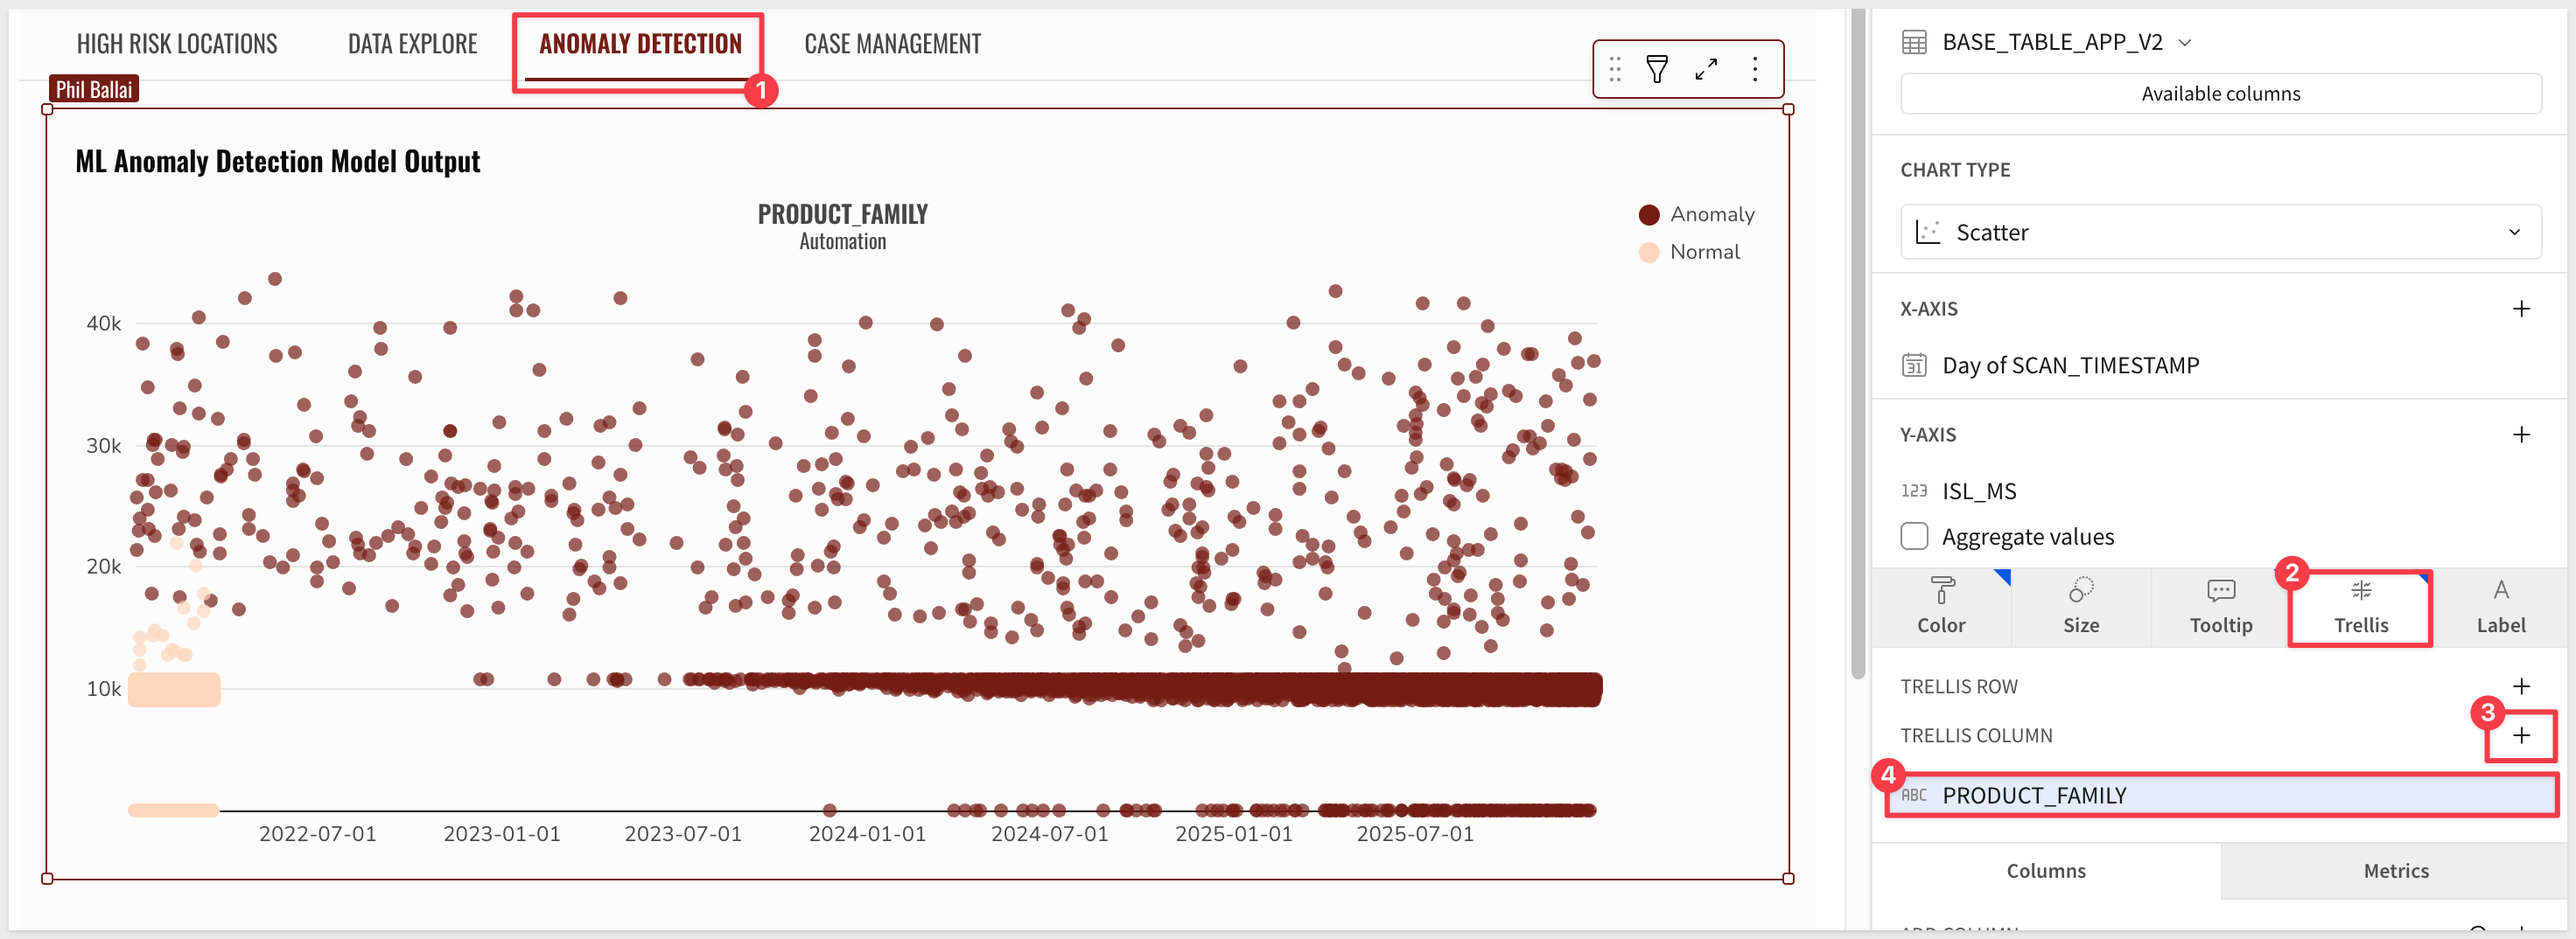
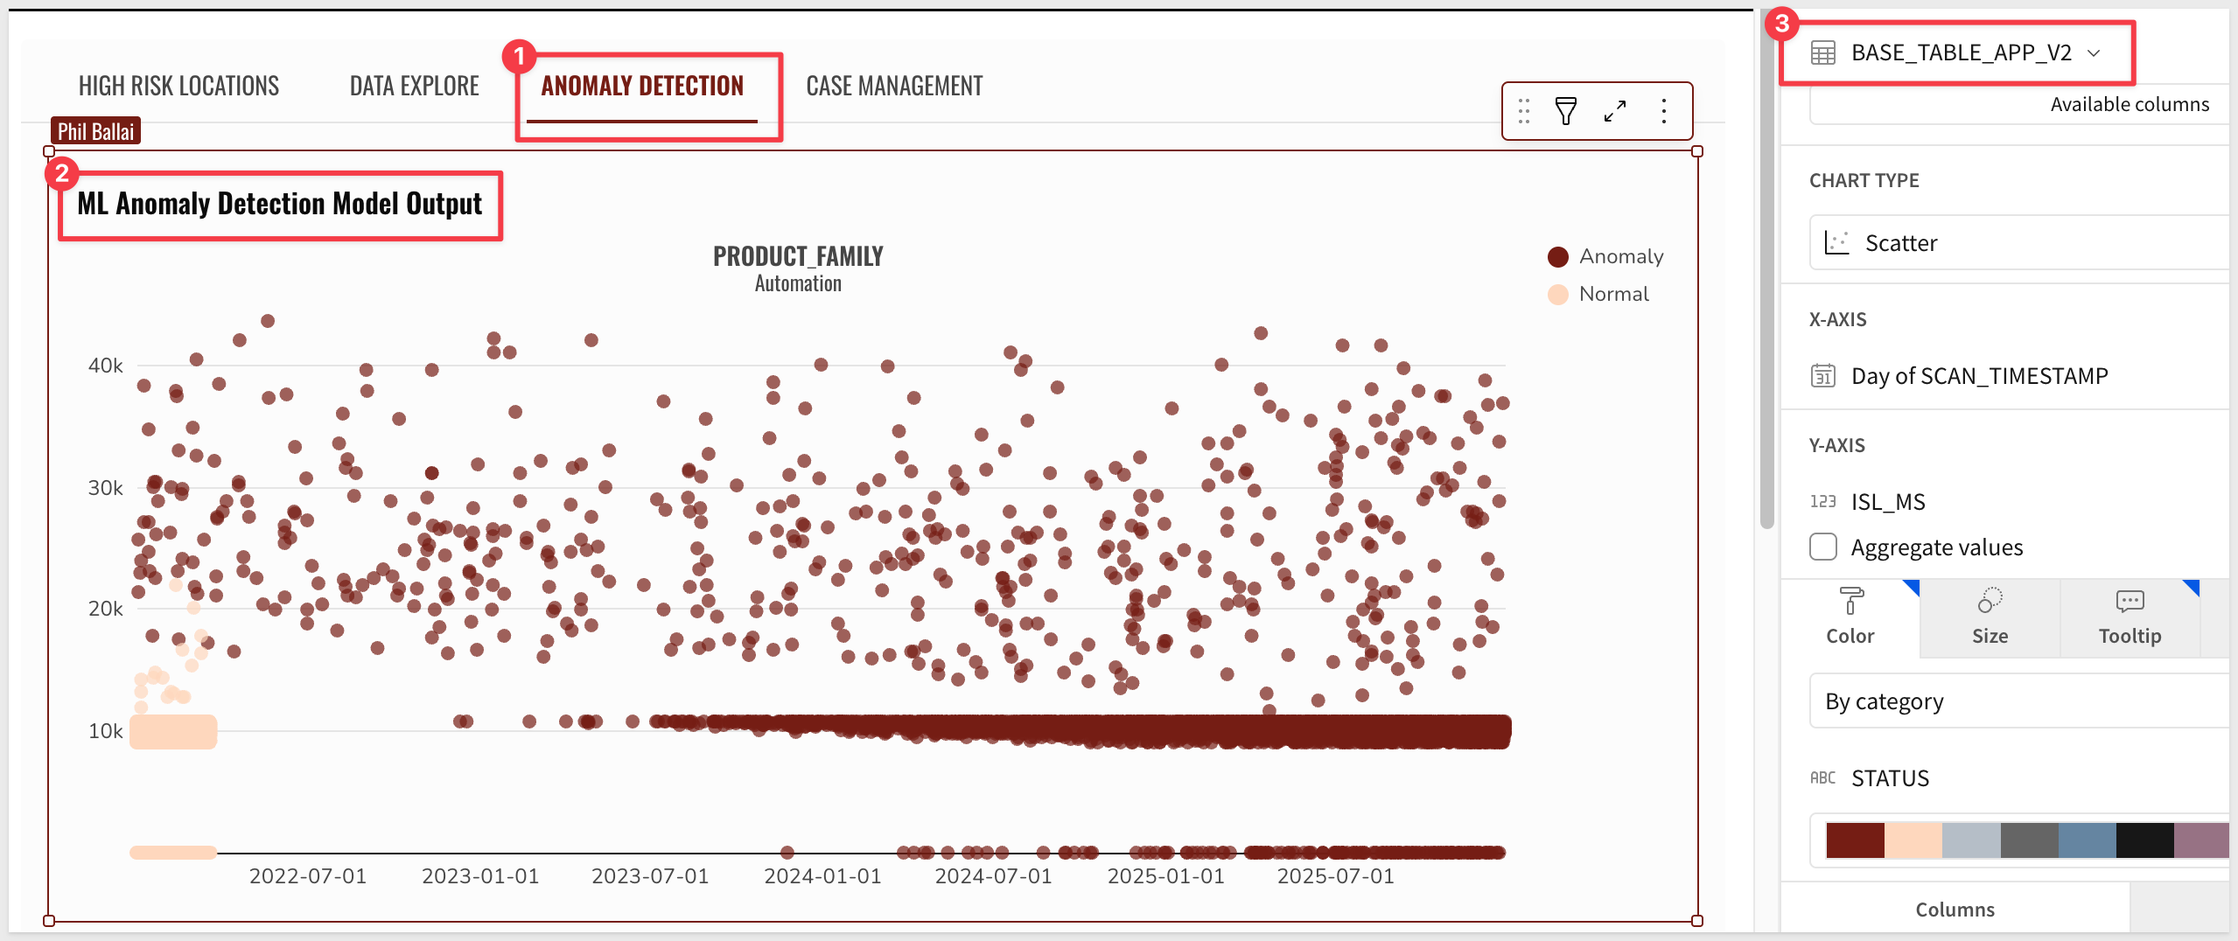
shink_march_20_changes

diff --git a/site/sigmaguides/src/partners_snowflake_retail_loss_prevention_shrink_detection/partners_snowflake_retail_loss_prevention_shrink_detection.md b/site/sigmaguides/src/partners_snowflake_retail_loss_prevention_shrink_detection/partners_snowflake_retail_loss_prevention_shrink_detection.md
@@ -24,7 +24,7 @@ You will modernize the Big Buys security stack by integrating Sigma, Snowflake, 
 - **Build an AI Investigator** using a Sigma Custom Agent (powered by a Cortex Agent) that translates complex model outputs into plain English for store managers
 
 <aside class="positive">
-<strong>What is Inter-Scan Latency?</strong><br> Inter-Scan Latency (ISL) is the time gap between consecutive item scans at a checkout register. Normal scanning has predictable timing patterns, but fraudulent behavior (like "Sweethearting" where cashiers help friends steal) creates unusual pauses or rapid sequences. Unlike dollar amounts or voids, ISL timing patterns are behavioral signatures that are statistically impossible to fake, making them ideal for ML-based fraud detection.
+<strong>What is Inter-Scan Latency?</strong><br> Inter-Scan Latency (ISL) is the time gap between consecutive item scans at a checkout register. Normal scanning has predictable timing patterns, but fraudulent behavior (like "Sweethearting," where cashiers help friends steal) creates unusual pauses or rapid sequences. Unlike dollar amounts or voids, ISL timing patterns are behavioral signatures that are statistically impossible to fake, making them ideal for ML-based fraud detection.
 </aside>
 
 ### Target Audience
@@ -70,7 +70,7 @@ Navigate to the OKTA home page, and click on the `Sigma SE Demos` tile. This wil
 <strong>IMPORTANT:</strong><br> Do not sign up for a new Sigma trial for this lab!
 </aside>
 
-From the Sigma home page navigate to the templates section:
+From the Sigma home page, navigate to the templates section:
 
 <img src="assets/sf2025_2.png" width="800"/>
 
@@ -82,7 +82,7 @@ Under internal templates select `Snowflake SKO FY27 - Loss Prevention App Templa
 ## Module 1: Analytical Audit of Legacy Exception-Based Reporting
 Duration: 20
 
-Welcome to the Team! As a newly hired Shrink Expert, your first week is focused on getting "the lay of the land." Big Buys has been overwhelmed with security alerts, and you have been brought in to build a superior detection system from the ground up.
+Welcome to the team! As a newly hired Shrink Expert, your first week is focused on getting "the lay of the land." Big Buys has been overwhelmed with security alerts, and you have been brought in to build a superior detection system from the ground up.
 
 Before rolling out new solutions, we must evaluate the legacy tools. 
 
@@ -129,7 +129,7 @@ Use the **State** filter to drill down specifically to `Oregon`:
 
 We will use Ask Sigma to investigate Noreen Swift's performance, starting with broad metrics and narrowing our focus. 
 
-Remember we are using the existing version of the Loss Prevention App v1.0 to see the results that store managers currently rely. 
+Remember we are using the existing version of the Loss Prevention App v1.0 to see the results that store managers currently rely on.
 
 **Step 6**: Click the <img src="assets/crane.png" width="45"/> to return to the homepage and navigate to `Ask Sigma` and enter the following prompt.
 
@@ -138,7 +138,7 @@ Provide a comprehensive summary of Noreen Swift's performance history.
 ```
 <img src="assets/rlp_07.png" width="800"/>
 
-We can see a large number of flagged transaction:
+We can see a large number of flagged transactions:
 
 <img src="assets/rlp_08.png" width="600"/>
 
@@ -148,7 +148,7 @@ We can see a large number of flagged transaction:
 List all transactions handled by Noreen along with the static flags.
 ```
 
-Again, we get lots of information back but we will want to dig deeper.
+Again, we get lots of information back, but we will want to dig deeper.
 
 **Step 8**: Click the `Open in Workbook` icon in the Ask Sigma view to move into a full Sigma workbook for a deeper technical investigation:
 
@@ -160,11 +160,11 @@ Again, we get lots of information back but we will want to dig deeper.
 
 <img src="assets/rlp_10.png" width="650"/>
 
-Sort the data by `Price` in descending order to focus on the high value alerts:
+Sort the data by `Price` in descending order to focus on the high-value alerts:
 
 <img src="assets/rlp_11.png" width="250"/>
 
-**Step 10**: `Order Number 100284237` stands out. It contains a high priced item that was voided. Click on the order number and select `Keep only 100284237`. 
+**Step 10**: `Order Number 100284237` stands out. It contains a high-priced item that was voided. Click on the order number and select `Keep only 100284237`. 
 
 This creates a specific filter for this transaction:
 
@@ -177,7 +177,7 @@ This creates a specific filter for this transaction:
 ### Key Findings
 
 - **The Alert**: Two HP Omen Gaming Laptops ($4,192.28) were voided
-- **The Context**: Also two Corsair Gaming PC ($1,450.48) were scanned and paid for:
+- **The Context**: Also, two Corsair Gaming PCs ($1,450.48) were scanned and paid for:
 
 <img src="assets/rlp_14.png" width="800"/>
 
@@ -340,7 +340,7 @@ Change the chart type from `Bar` to `Scatter`:
 
 <img src="assets/rlp_28.png" width="800"/>
 
-Next we configure the scatter chart and add another for a comparison.
+Next, we configure the scatter chart and add another for a comparison.
 
 #### Plot A: Static Rules Visualization
 
@@ -365,7 +365,7 @@ Rename the chart `Static Rules Visualization`.
 
 #### Plot B: Python ML Visualization
 
-We create another scatter chart from scratch but it is faster to just duplicate the existing one and adjust it:
+We create another scatter chart from scratch, but it is faster to just duplicate the existing one and adjust it:
 
 <img src="assets/rlp_31.png" width="500"/>
 
@@ -410,22 +410,30 @@ COUNT([SCAN_ID])
 
 <img src="assets/rlp_35.png" width="800"/>
 
-b. Add a third column calculation named `PERCENT FLAGGED` using the formula:
+b. Set `Transactions` to use a whole number format:
+
+<img src="assets/rlp_35a.png" width="800"/>
+
+c. Add a third column calculation named `PERCENT FLAGGED` using the formula:
 ```copy-code
 [FLAGGED TRANSACTIONS] / [TRANSACTIONS]
 ```
 
-c. Change the `PERCENT FLAGGED` column to use `%`:
+d. Change the `PERCENT FLAGGED` column to use `%`:
 
 <img src="assets/rlp_36.png" width="800"/>
 
-d. `Sort` the table by the `PERCENT FLAGGED` column in descending order to prioritize high-risk stores:
+e. `Sort` the table by the `PERCENT FLAGGED` column in descending order to prioritize high-risk stores:
 
 <img src="assets/rlp_37.png" width="350"/>
 
-e. Add `Conditional formatting` to the `PERCENT FLAGGED` column. Add `Format type` > `Color Scale`: 
+f. Add `Conditional formatting` to the `PERCENT FLAGGED` column. Add `Format type` > `Color Scale` > `Custom` > `Sequential`. 
 
-<img src="assets/rlp_37a.png" width="500"/>
+Sigma presents two square boxes that when clicked, allow you to set a custom color.
+
+For the left box, use `#FFFFFF` and for the right, `#761A10`:
+
+<img src="assets/rlp_37b.png" width="700"/>
 
 ### Update Data Sources
 
@@ -450,23 +458,26 @@ Change source for the `FLAGGED_SCANS` table from `ONLY_FLAGGED_SCANS_V1`:
 
 ...to `ONLY_FLAGGED_SCANS_V2`.
 
-Now all the charts on the `App v2.0` page are using the `FLAGGED_SCANS` table which has been set to get it's data from `ONLY_FLAGGED_SCANS_V2`:
+Now all the charts on the `App v2.0` page are using the `FLAGGED_SCANS` table which has been set to get its data from `ONLY_FLAGGED_SCANS_V2`:
 
 <img src="assets/rlp_40.png" width="800"/>
 
 ### Create Anomaly Detection Visualization
 
-**Step 3**: Navigate to the `ANOMALY DETECTION` tab and construct a new visualization from the ground up:
+**Step 3**: Navigate to the `ANOMALY DETECTION` tab and add a scatter plot visual. Instead of constructing a new chart from the ground up, we’ll reuse the chart we built in Module 2.
 
-1. Navigate to the `Anomaly_Detection` page that we used in `Module 2` and duplicate the `Python ML` scatter plot. 
+1. Navigate to the `Anomaly_Detection` page that we used in `Module 2` and duplicate the `Python ML visualization` scatter plot.
+- Click on the three dots on the top right corner of the chart and select Duplicate
 
-2. Rename the chart `ML Anomaly Detection Model Output`. 
+2. Rename the chart ML `Anomaly Detection Model Output`.
 
-3. Change the data source from `MODEL_COMPARISON to BASE_TABLE_APP_V2`.
+3. Change the data source from `MODEL_COMPARISON` to `BASE_TABLE_APP_V2`.
 
-4. `Move` the chart to the `ANOMALY DETECTION` tab in the page `App v2.0`:
+4. Move the chart to the `ANOMALY DETECTION` tab in the page `App v2.0`.
+- Click on the `three dots` on the top right corner of the chart and select `Move to` and choose `App v2.0`.
 
-5. **Add a Trellis Column**: Use the `PRODUCT_FAMILY` column:
+5. The chart will now have been moved to the `ANOMALY DETECTION` tab in `App v2.0`. 
+- Drag and drop the chart into the container above:
 
 <img src="assets/rlp_41.png" width="800"/>
 
@@ -501,7 +512,7 @@ A pre-configured Chat Agent has been integrated into the workbook to facilitate 
 #### Querying Flagged Transactions
 
 <aside class="positive">
-<strong>IMPORTANT:</strong><br> Make sure you are using the published version (ie: not in edit mode) for this next section.
+<strong>IMPORTANT:</strong><br> Make sure you are using the published version (i.e., not in edit mode) for this next section.
 </aside>
 
 **Step 1**: Invoke the Chat Agent from the top right corner (next to your name):
@@ -516,7 +527,7 @@ Show me the list of top 5 transactions that have the highest risk scores.
 
 <img src="assets/rlp_46.png" width="800"/>
 
-2. In the response, Cortex provides some information about the transactions with the highest risk, so lets ask a follow-up question:
+2. In the response, Cortex provides some information about the transactions with the highest risk, so let's ask a follow-up question:
 
 <img src="assets/rlp_46a.png" width="800"/>
 
@@ -528,12 +539,12 @@ Yes, provide detailed information on the order with the highest risk score.
 
 <img src="assets/rlp_46b.png" width="800"/>
 
-4. This order looks suspicious.  In final follow-up, ask:
+4. This order looks suspicious. In a final follow-up, ask:
 ```copy-code
 This order looks suspicious. Escalate this order.
 ```
 
-5. Upon reviewing the results, you may execute workflow commands directly within the chat interface, such as  `APPROVE`, `REJECT` or `ESCALATE` for any specific transaction.
+5. Upon reviewing the results, you may execute workflow commands directly within the chat interface, such as `APPROVE`, `REJECT` or `ESCALATE` for any specific transaction.
 
 Since we asked for escalation, we get asked to `Approve` it:
 
@@ -555,7 +566,7 @@ To further enhance the decision-making process within the review modal, we will 
 
 Place the workbook back into `Edit` mode.
 
-Navigate to the `REVIEW_MODAL` page in the Sigma workbook and follow these configuration steps
+Navigate to the `REVIEW_MODAL` page in the Sigma workbook and follow these configuration steps:
 
 1. Create a `chat element` from the `Element Bar`: select `UI`, and choose `Chat`
 
@@ -616,7 +627,7 @@ Navigate to the `App v2.0` page and select the `CASE MANAGEMENT` input table:
 
 <img src="assets/rlp_50b.png" width="400"/>
 
-Click `Save`.
+Click `Save` and then make sure to `Publish` the workbook. Go to the published version of the workbook.
 
 8. We will now show another way to review transactions. 
 
@@ -628,15 +639,17 @@ We see that SCAN_ID `1000363387_3` is the second riskiest transaction:
 
 Let us see what the agent tells us about why this scan was flagged. 
 
-We see that this scan is clearly suspicious so let us go ahead and reject this transaction.
+Navigate to the `App v2.0` page.
+
+We see that this scan is clearly suspicious, so let us go ahead and reject this transaction.
 
 This time, click the cell for SCAN_ID `1000363387_3` directly:
 
 <img src="assets/rlp_50c.png" width="600"/>
 
-Now we can set the status to `Reject` ourselves and click `Submit` or scroll down to where we added an AI Agent and just ask the `AI agent` to do it for us:
+Let's `Reject` this transaction by simply asking the AI agent to do it for us:
 ```copy-code
-Reject the transaction SCAN_ID  due to the clear risk patterns.
+Reject the transaction due to the clear risk patterns.
 ```
 
 <img src="assets/rlp_50e.png" width="500"/>
@@ -689,7 +702,9 @@ Using Reports, you can create formatted, interactive PDFs with specific filters 
 This transforms raw data exports into professional, role-specific communications that drive immediate action at the store level.
 </aside>
 
-For more information, see [Create and manage reports](https://help.sigmacomputing.com/docs/create-and-manage-reports)
+For more information, see [Reports overview](https://help.sigmacomputing.com/docs/reports-overview)
+
+There is also a QuickStart, [Fundamentals 11: Pixel Perfect Reporting](https://quickstarts.sigmacomputing.com/guide/fundamentals_11_pixel_perfect_reporting/index.html?index=..%2F..index#5)
 
 ![Footer](assets/sigma_footer.png)
 <!-- END OF SECTION-->
